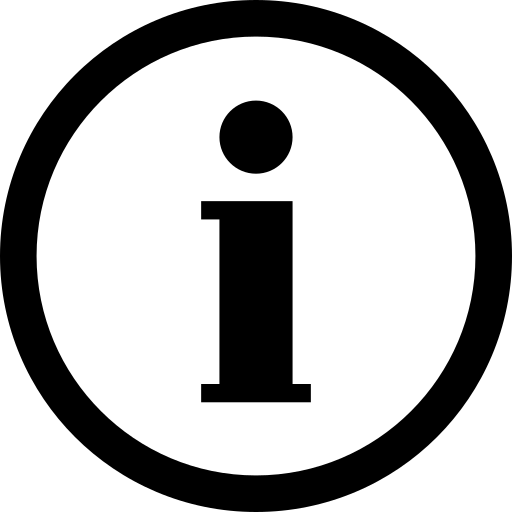
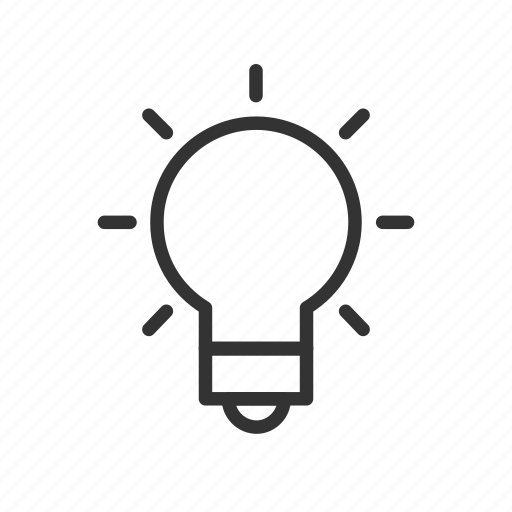
hint arrow

diff --git a/main3.0.py b/main3.0.py
@@ -337,7 +337,9 @@ class Menu:
             pg.display.update()
             CLOCK.tick(FPS)
                 
-            
+class JumpLvl:
+    def __init__(self, screen:pg.Surface):
+        self.screen = screen
             
     
 if __name__ == "__main__":
@@ -350,8 +352,10 @@ if __name__ == "__main__":
         elif op == "game":
             game = Game(screen, lvl)
             op = game.run()
-        elif op == 'next_lvl':
+        elif op == "next_lvl":
             lvl += 1
             op = 'game'
+        elif op == "jump":
+            
         else: break
             
